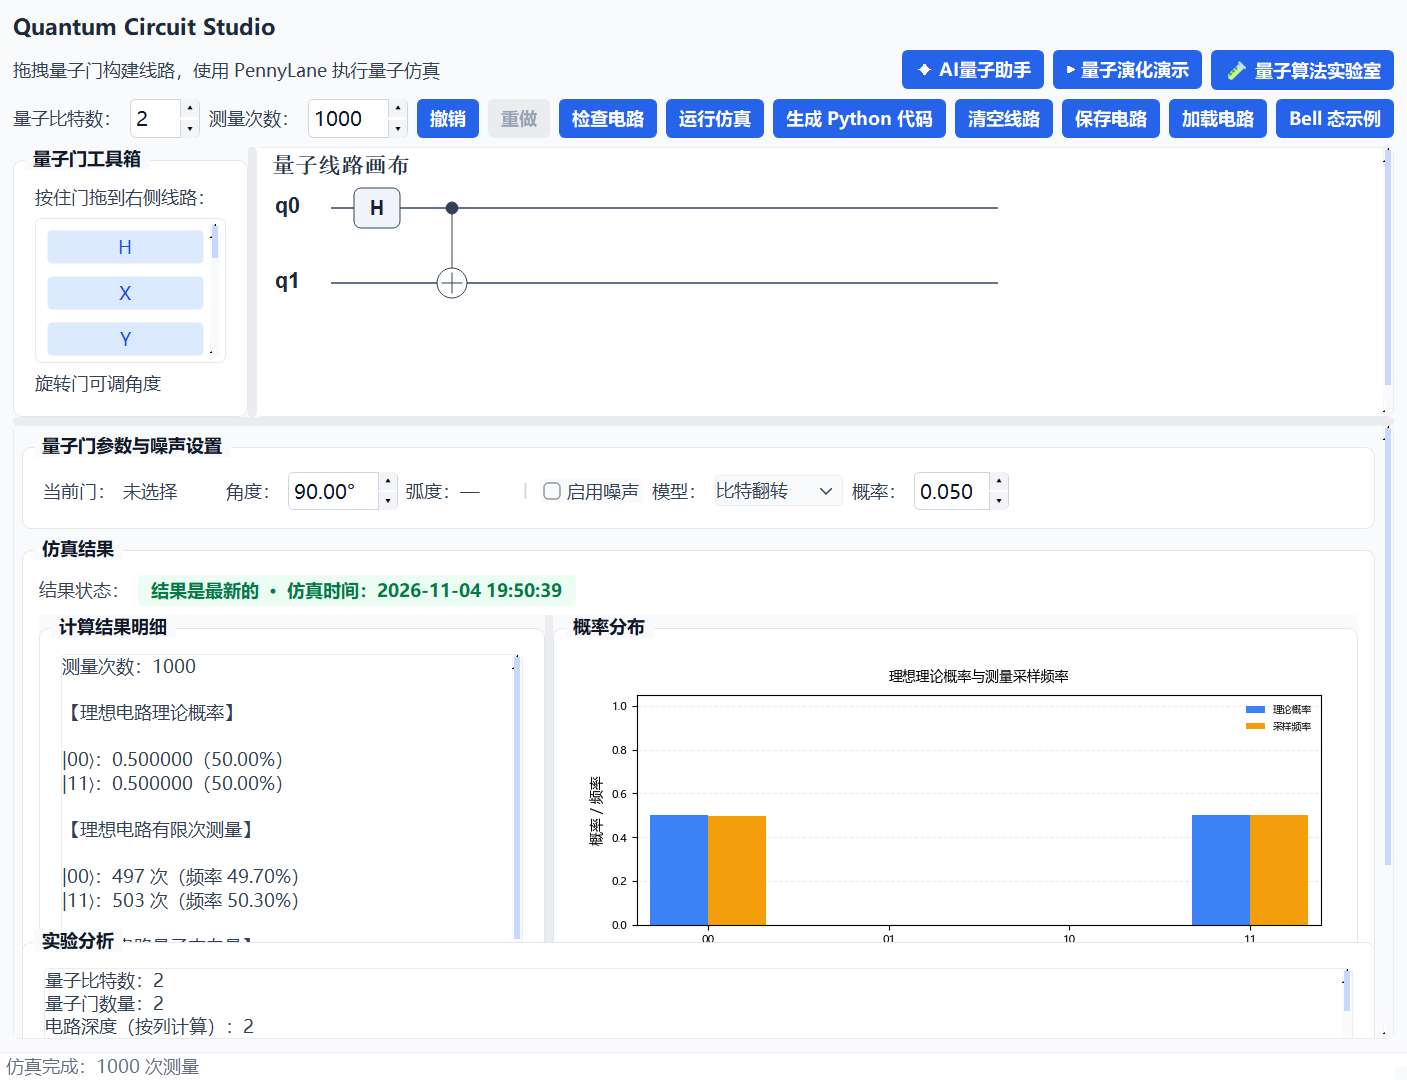
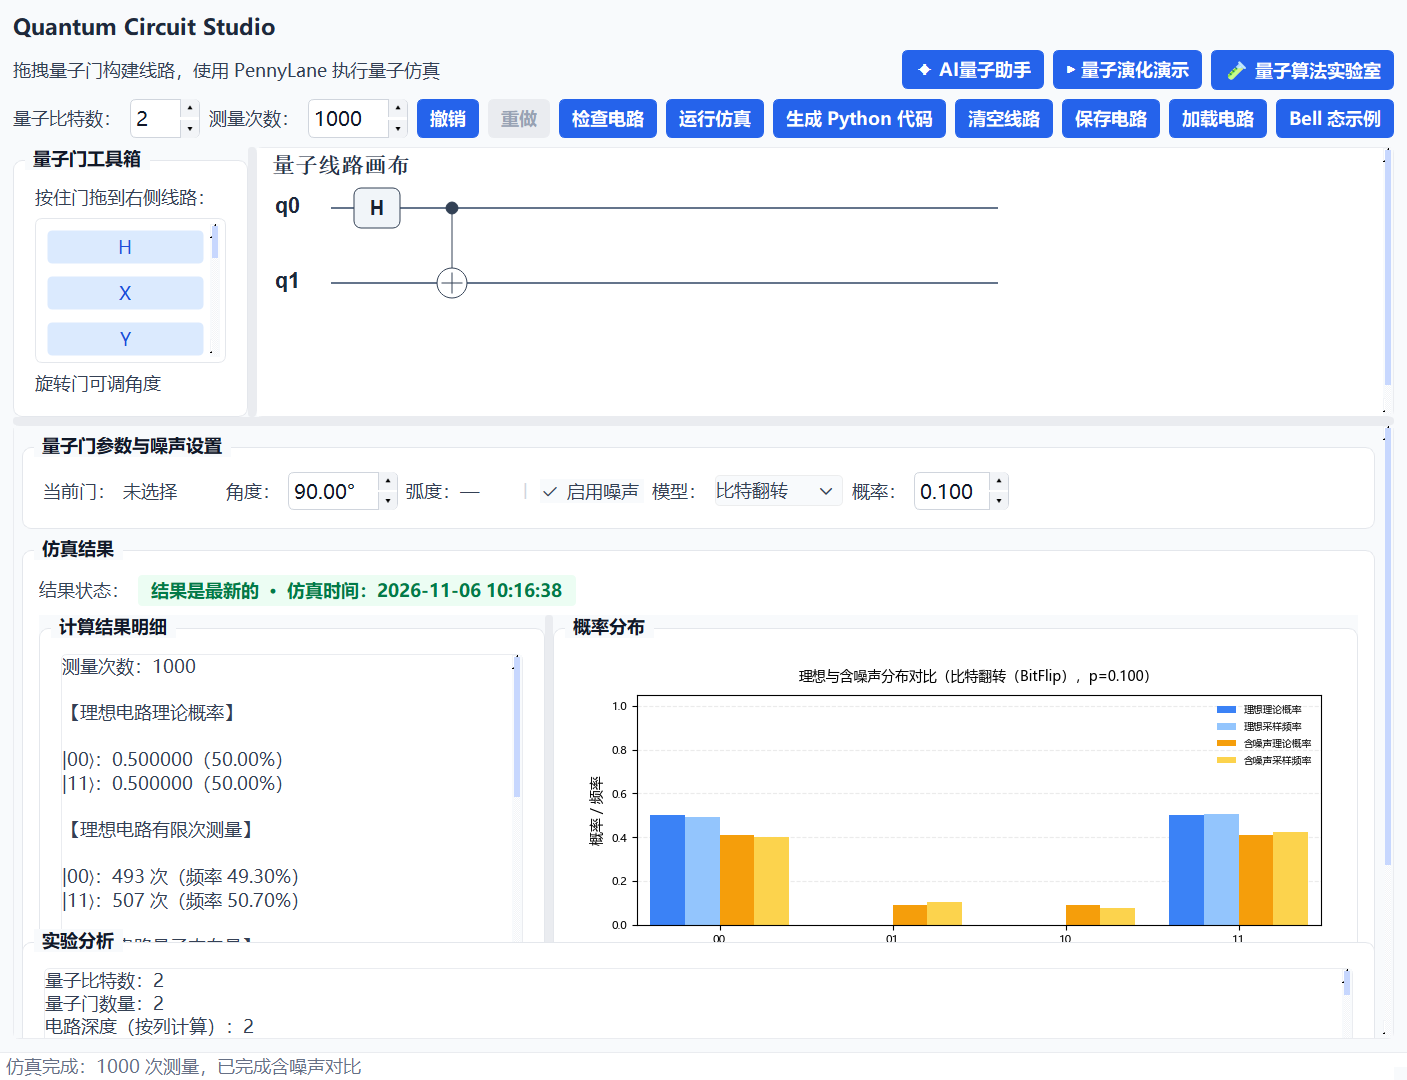
docs: 增加下载版说明并更新界面截图

diff --git a/README.md b/README.md
@@ -42,7 +42,18 @@
 
 ![量子算法实验室](docs/screenshot-lab.png)
 
-## 快速开始
+## 下载即用（Windows）
+
+不想装 Python 的话，用打包好的版本：
+
+1. 打开 [Releases](https://github.com/xia1314tong/quantum-circuit-studio/releases/latest)，下载 `QuantumCircuitStudio-1.0.0-win64.zip`（约 123 MB）
+2. 解压到任意目录，双击 `量子电路仿真平台.exe`
+
+免安装、免配置，首次启动约 3–5 秒。AI 助手需要自己的 DeepSeek API Key，把 `deepseek_config.json` 放到 exe 同级目录即可（格式见 `deepseek_config.example.json`）；不配置也不影响仿真、导出与算法实验室。
+
+> 打包版为 Windows x64；macOS / Linux 请从源码运行。
+
+## 从源码运行
 
 ### 环境要求
 
